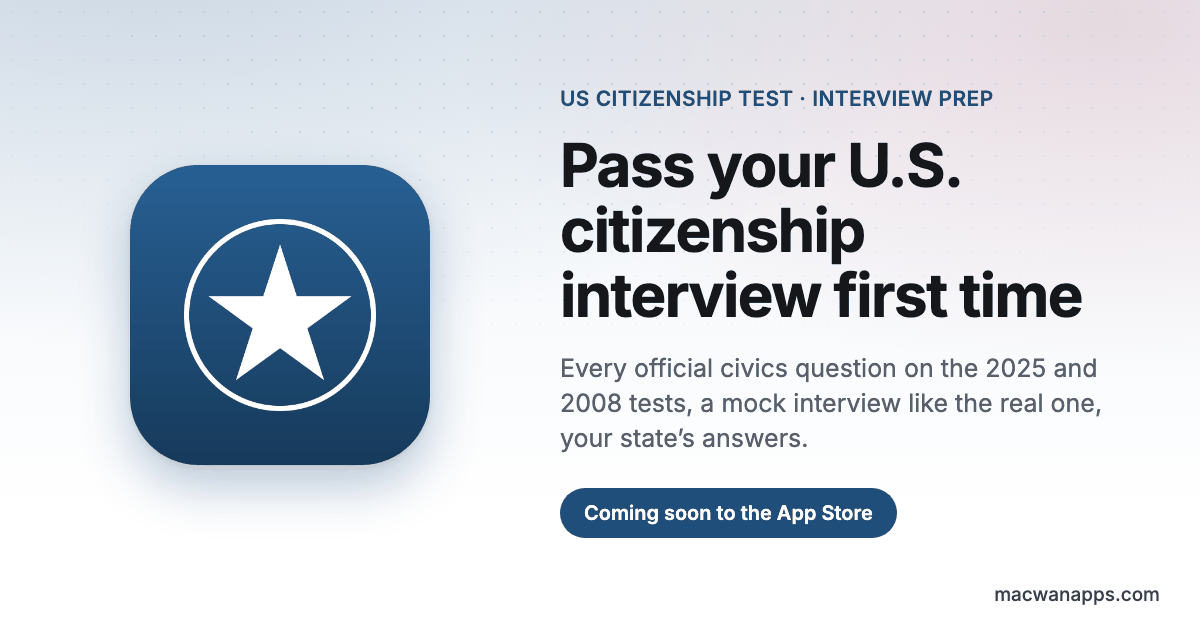
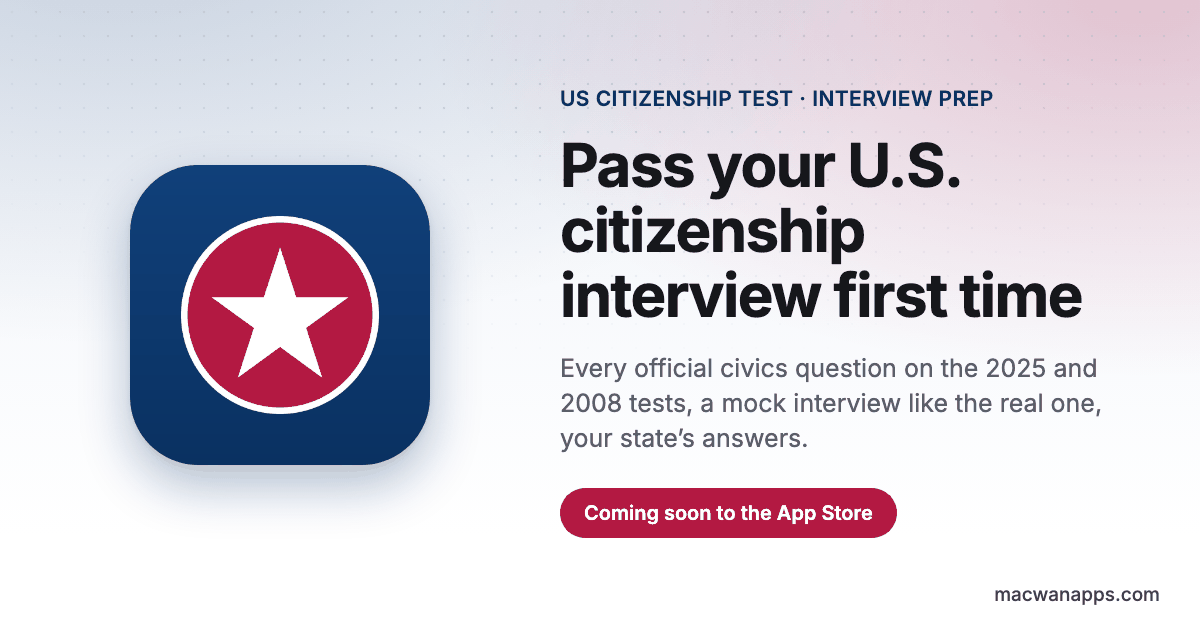
feat(citizenship): each country in its flag colours
Australia goes green and gold, the US red and blue, New Zealand black and
white; Canada keeps its maple red.

- Per-country palettes in site.css now carry role variables: the base
  colour for text, links and icons (always readable on white), and the
  second flag colour for buttons, the coming-soon pill, step badges and
  glows. Gold buttons carry dark text, never white.
- Australia: national green #00843D and gold #FFCD00.
  US: Old Glory Blue #0A3161 and Old Glory Red #B31942.
  New Zealand: black, white and silver.
- Dark mode palettes for all three, with an edge on the black NZ emblem.
- New US emblem (red disc and white star on navy) and NZ emblem (white
  Southern Cross on black); share cards re-rendered, NZ's on black.
- Homepage cards, browser theme-color tints and contact buttons follow.

Accessibility 100 on all 12 pages in light and dark (contrast included).

diff --git a/css/site.css b/css/site.css
@@ -3187,32 +3187,59 @@ html.noanim .deco-rings::before, html.noanim .float-chip { animation: none; }
    Same structure as the Canada landing above, which keeps its own
    tested block. Light, dark and mobile.
    ============================================================ */
+/* Each country in its flag colours. --cz-rgb carries text, links and icons
+   (always readable on white); the second flag colour goes on buttons,
+   pills, step badges and glows. Canada keeps its own maple block above. */
 .theme-cz-au {
-  --cz-rgb: 31, 111, 80;      /* eucalyptus — the app's accent */
-  --cz-deep-rgb: 22, 82, 57;
-  --cz-warm-rgb: 214, 158, 22; /* wattle */
-  --cz-tint: #f3f8f4;
-  --cz-hero-top: #edf6f0;
-  --cz-cta: #1f6f50;
-  --cz-cta-hover: #165239;
+  --cz-rgb: 0, 132, 61;           /* national green #00843D (4.8:1 on white) */
+  --cz-deep-rgb: 0, 102, 51;
+  --cz-warm-rgb: 255, 205, 0;     /* national gold #FFCD00 */
+  --cz-tint: #fffbe8;
+  --cz-hero-top: #f1f8ef;
+  --cz-cta: #ffcd00;              /* gold buttons carry dark text, never white */
+  --cz-cta-hover: #f2bd00;
+  --cz-cta-ink: #1b1b1b;
+  --cz-pill-bg: #fff5cc;
+  --cz-pill-fg: #5c4600;
+  --cz-pill-border: #e6b800;
+  --cz-step-a: #ffd84d;
+  --cz-step-b: #f2b705;
+  --cz-step-ink: #1b1b1b;
+  --cz-step-glow: 230, 184, 0;
 }
 .theme-cz-us {
-  --cz-rgb: 31, 78, 122;      /* navy — the app's accent */
-  --cz-deep-rgb: 22, 58, 91;
-  --cz-warm-rgb: 178, 34, 52;  /* flag red, used sparingly */
-  --cz-tint: #f3f6fa;
-  --cz-hero-top: #edf2f8;
-  --cz-cta: #1f4e7a;
-  --cz-cta-hover: #163a5b;
+  --cz-rgb: 10, 49, 97;           /* Old Glory Blue #0A3161 */
+  --cz-deep-rgb: 6, 31, 64;
+  --cz-warm-rgb: 179, 25, 66;     /* Old Glory Red #B31942 */
+  --cz-tint: #f3f5fa;
+  --cz-hero-top: #eef2f9;
+  --cz-cta: #b31942;              /* white on red: 6.7:1 */
+  --cz-cta-hover: #93143a;
+  --cz-cta-ink: #ffffff;
+  --cz-pill-bg: #fcebef;
+  --cz-pill-fg: #8e1435;
+  --cz-pill-border: #b31942;
+  --cz-step-a: #c8264f;
+  --cz-step-b: #93143a;
+  --cz-step-ink: #ffffff;
+  --cz-step-glow: 179, 25, 66;
 }
 .theme-cz-nz {
-  --cz-rgb: 14, 116, 112;     /* pounamu */
-  --cz-deep-rgb: 10, 84, 81;
-  --cz-warm-rgb: 79, 163, 199; /* sky */
-  --cz-tint: #f1f8f7;
-  --cz-hero-top: #ebf6f5;
-  --cz-cta: #0e7470;
-  --cz-cta-hover: #0a5451;
+  --cz-rgb: 17, 17, 17;           /* black and white, silver for the glow */
+  --cz-deep-rgb: 0, 0, 0;
+  --cz-warm-rgb: 140, 146, 156;
+  --cz-tint: #f4f4f5;
+  --cz-hero-top: #f2f2f3;
+  --cz-cta: #111111;
+  --cz-cta-hover: #000000;
+  --cz-cta-ink: #ffffff;
+  --cz-pill-bg: #ffffff;
+  --cz-pill-fg: #111111;
+  --cz-pill-border: #111111;
+  --cz-step-a: #2a2a2a;
+  --cz-step-b: #000000;
+  --cz-step-ink: #ffffff;
+  --cz-step-glow: 0, 0, 0;
 }
 .theme-cz {
   --accent: rgb(var(--cz-rgb));
@@ -3254,8 +3281,16 @@ html.noanim .deco-rings::before, html.noanim .float-chip { animation: none; }
   background: rgba(255, 255, 255, 0.85);
   border-bottom-color: var(--border);
 }
-.theme-cz nav .nav-links a.nav-cta { color: #fff; background: var(--cz-cta); }
-.theme-cz nav .nav-links a.nav-cta:hover { color: #fff; background: var(--cz-cta-hover); }
+.theme-cz nav .nav-links a.nav-cta { color: var(--cz-cta-ink); background: var(--cz-cta); }
+.theme-cz nav .nav-links a.nav-cta:hover { color: var(--cz-cta-ink); background: var(--cz-cta-hover); }
+.theme-cz .coming-soon-pill {
+  background: var(--cz-pill-bg);
+  color: var(--cz-pill-fg);
+  border-color: var(--cz-pill-border);
+}
+.theme-cz .contact-btn { background: var(--cz-cta); color: var(--cz-cta-ink); }
+.theme-cz .contact-btn:hover { background: var(--cz-cta-hover); }
+.theme-cz .contact-btn svg { fill: var(--cz-cta-ink); }
 
 .theme-cz .hero-split-shot { position: relative; }
 .theme-cz .hero-split-shot::before {
@@ -3285,9 +3320,9 @@ html.noanim .deco-rings::before, html.noanim .float-chip { animation: none; }
 }
 .theme-cz .how-grid { max-width: 976px; margin-left: auto; margin-right: auto; }
 .theme-cz .step-num {
-  background: linear-gradient(135deg, rgb(var(--cz-rgb)), rgb(var(--cz-deep-rgb)));
-  color: #fff;
-  box-shadow: 0 4px 12px rgba(var(--cz-rgb), 0.25);
+  background: linear-gradient(135deg, var(--cz-step-a), var(--cz-step-b));
+  color: var(--cz-step-ink);
+  box-shadow: 0 4px 12px rgba(var(--cz-step-glow), 0.28);
 }
 
 .theme-cz .features-section {
@@ -3470,9 +3505,33 @@ html.noanim .deco-rings::before, html.noanim .float-chip { animation: none; }
 .cz-family .dot-sep { display: inline-block; width: 4px; height: 4px; border-radius: 50%; background: var(--border-strong); margin: 0 10px; vertical-align: middle; }
 
 @media (prefers-color-scheme: dark) {
-  .theme-cz-au { --cz-rgb: 92, 194, 154; --cz-deep-rgb: 60, 150, 116; --cz-warm-rgb: 230, 182, 60; --cz-tint: #0f1714; --cz-hero-top: #0d1512; }
-  .theme-cz-us { --cz-rgb: 121, 172, 217; --cz-deep-rgb: 86, 136, 184; --cz-warm-rgb: 224, 96, 110; --cz-tint: #0f131a; --cz-hero-top: #0d1219; }
-  .theme-cz-nz { --cz-rgb: 79, 193, 184; --cz-deep-rgb: 52, 152, 145; --cz-warm-rgb: 116, 190, 222; --cz-tint: #0e1716; --cz-hero-top: #0c1514; }
+  .theme-cz-au {
+    --cz-rgb: 77, 201, 132; --cz-deep-rgb: 0, 132, 61; --cz-warm-rgb: 255, 205, 0;
+    --cz-tint: #16150b; --cz-hero-top: #12140d;
+    --cz-cta: #ffcd00; --cz-cta-hover: #ffd84d; --cz-cta-ink: #111111;
+    --cz-pill-bg: rgba(255, 205, 0, 0.14); --cz-pill-fg: #ffd84d; --cz-pill-border: #ffcd00;
+    --cz-step-a: #ffd84d; --cz-step-b: #e6b800; --cz-step-ink: #111111; --cz-step-glow: 255, 205, 0;
+  }
+  .theme-cz-us {
+    --cz-rgb: 143, 180, 230; --cz-deep-rgb: 98, 140, 200; --cz-warm-rgb: 214, 72, 105;
+    --cz-tint: #0e1320; --cz-hero-top: #0c1120;
+    --cz-cta: #b31942; --cz-cta-hover: #c8264f; --cz-cta-ink: #ffffff;
+    --cz-pill-bg: rgba(214, 72, 105, 0.16); --cz-pill-fg: #f28aa3; --cz-pill-border: #d64869;
+    --cz-step-a: #d64869; --cz-step-b: #b31942; --cz-step-ink: #ffffff; --cz-step-glow: 214, 72, 105;
+  }
+  /* The black NZ emblem needs an edge to show on a black page. */
+  .theme-cz-nz .cc-hero-icon,
+  .theme-cz-nz .cz-cta-icon,
+  .theme-cz-nz nav .brand img { box-shadow: 0 0 0 1px rgba(255, 255, 255, 0.22); }
+  .theme-cz-nz nav .brand img { border-radius: 6px; }
+  .card-cz-nz .app-icon { box-shadow: 0 0 0 1px rgba(255, 255, 255, 0.22); }
+  .theme-cz-nz {
+    --cz-rgb: 245, 245, 245; --cz-deep-rgb: 212, 212, 216; --cz-warm-rgb: 161, 161, 170;
+    --cz-tint: #141416; --cz-hero-top: #0a0a0b;
+    --cz-cta: #f5f5f5; --cz-cta-hover: #ffffff; --cz-cta-ink: #0b0b0b;
+    --cz-pill-bg: rgba(255, 255, 255, 0.06); --cz-pill-fg: #f5f5f5; --cz-pill-border: #f5f5f5;
+    --cz-step-a: #ffffff; --cz-step-b: #d4d4d8; --cz-step-ink: #0b0b0b; --cz-step-glow: 0, 0, 0;
+  }
   .theme-cz nav {
     background: rgba(14, 15, 18, 0.55);
     border-bottom: 1px solid rgba(var(--cz-rgb), 0.12);
@@ -3486,7 +3545,6 @@ html.noanim .deco-rings::before, html.noanim .float-chip { animation: none; }
     border-color: rgba(var(--cz-rgb), 0.18);
     box-shadow: 0 8px 28px rgba(0, 0, 0, 0.45);
   }
-  .theme-cz .step-num { color: #0e0f12; }
   .cz-planned { color: rgb(var(--cz-rgb)); }
 }
 
@@ -3505,21 +3563,30 @@ html.noanim .deco-rings::before, html.noanim .float-chip { animation: none; }
 }
 
 /* Citizenship apps on the homepage: one card style, coloured per country */
-.card-cz-au { --card-rgb: 31, 111, 80; --card-deep: #165239; --card-bg1: #f2f8f4; --card-bg2: #e2f0e7; }
-.card-cz-us { --card-rgb: 31, 78, 122; --card-deep: #163a5b; --card-bg1: #f2f6fa; --card-bg2: #e1eaf4; }
-.card-cz-nz { --card-rgb: 14, 116, 112; --card-deep: #0a5451; --card-bg1: #f0f8f7; --card-bg2: #dff0ee; }
+.card-cz-au {
+  --card-rgb: 0, 132, 61; --card-glow: 255, 205, 0; --card-bg1: #fffbe8; --card-bg2: #e6f4ea;
+  --card-pill-bg: #fff5cc; --card-pill-fg: #5c4600; --card-pill-dot: #e6b800;
+}
+.card-cz-us {
+  --card-rgb: 10, 49, 97; --card-glow: 179, 25, 66; --card-bg1: #eef2f9; --card-bg2: #fbeef1;
+  --card-pill-bg: #fcebef; --card-pill-fg: #8e1435; --card-pill-dot: #b31942;
+}
+.card-cz-nz {
+  --card-rgb: 17, 17, 17; --card-glow: 0, 0, 0; --card-bg1: #f6f6f7; --card-bg2: #e4e4e7;
+  --card-pill-bg: #f1f1f2; --card-pill-fg: #111111; --card-pill-dot: #111111;
+}
 .card-cz:hover {
   border-color: rgba(var(--card-rgb), 0.35);
   box-shadow: 0 12px 48px rgba(var(--card-rgb), 0.14);
 }
-.card-cz .app-status.app-status-soon { background: rgba(var(--card-rgb), 0.09); color: var(--card-deep); }
-.card-cz .app-status.app-status-soon::before { background: rgb(var(--card-rgb)); }
+.card-cz .app-status.app-status-soon { background: var(--card-pill-bg); color: var(--card-pill-fg); }
+.card-cz .app-status.app-status-soon::before { background: var(--card-pill-dot); }
 .card-cz .app-mini-list li::before { background: rgba(var(--card-rgb), 0.12); }
 .card-cz .app-mini-list li::after { border-color: rgb(var(--card-rgb)); }
 .card-cz .app-preview {
   border-left-color: rgba(var(--card-rgb), 0.14);
   background:
-    radial-gradient(ellipse 80% 60% at 50% 110%, rgba(var(--card-rgb), 0.14), transparent),
+    radial-gradient(ellipse 80% 60% at 50% 110%, rgba(var(--card-glow), 0.16), transparent),
     linear-gradient(160deg, var(--card-bg1) 0%, var(--card-bg2) 100%);
 }
 .card-cz .app-preview img {
@@ -3529,9 +3596,18 @@ html.noanim .deco-rings::before, html.noanim .float-chip { animation: none; }
 .app-card-compact .app-card-inner { padding: 32px 40px; }
 .app-card-compact .app-tagline { max-width: 620px; }
 @media (prefers-color-scheme: dark) {
-  .card-cz-au { --card-rgb: 92, 194, 154; --card-deep: #7fd4b2; --card-bg1: #101814; --card-bg2: #0d1411; }
-  .card-cz-us { --card-rgb: 121, 172, 217; --card-deep: #9dc3e6; --card-bg1: #10141b; --card-bg2: #0d1117; }
-  .card-cz-nz { --card-rgb: 79, 193, 184; --card-deep: #7fd6cf; --card-bg1: #0f1817; --card-bg2: #0c1413; }
+  .card-cz-au {
+    --card-rgb: 77, 201, 132; --card-glow: 255, 205, 0; --card-bg1: #17160c; --card-bg2: #0e1611;
+    --card-pill-bg: rgba(255, 205, 0, 0.14); --card-pill-fg: #ffd84d; --card-pill-dot: #ffcd00;
+  }
+  .card-cz-us {
+    --card-rgb: 143, 180, 230; --card-glow: 214, 72, 105; --card-bg1: #0e1320; --card-bg2: #1a0f15;
+    --card-pill-bg: rgba(214, 72, 105, 0.16); --card-pill-fg: #f28aa3; --card-pill-dot: #d64869;
+  }
+  .card-cz-nz {
+    --card-rgb: 245, 245, 245; --card-glow: 255, 255, 255; --card-bg1: #151517; --card-bg2: #0b0b0c;
+    --card-pill-bg: rgba(255, 255, 255, 0.08); --card-pill-fg: #f5f5f5; --card-pill-dot: #f5f5f5;
+  }
   .card-cz .app-preview img { box-shadow: 0 -8px 32px rgba(0, 0, 0, 0.4); }
 }
 @media (max-width: 760px) {

diff --git a/apps/australia-citizenship/index.html b/apps/australia-citizenship/index.html
@@ -21,8 +21,8 @@
 <link rel="icon" type="image/png" sizes="32x32" href="/images/ma-favicon-32x32.png">
 <link rel="icon" type="image/png" sizes="16x16" href="/images/ma-favicon-16x16.png">
 <link rel="apple-touch-icon" sizes="180x180" href="/images/ma-apple-touch-icon.png">
-<meta name="theme-color" media="(prefers-color-scheme: light)" content="#edf6f0">
-<meta name="theme-color" media="(prefers-color-scheme: dark)" content="#0d1512">
+<meta name="theme-color" media="(prefers-color-scheme: light)" content="#f1f8ef">
+<meta name="theme-color" media="(prefers-color-scheme: dark)" content="#12140d">
 <link rel="preload" as="font" type="font/woff2" href="/fonts/inter-600.woff2" crossorigin>
 <link rel="preload" as="font" type="font/woff2" href="/fonts/inter-400.woff2" crossorigin>
 <link rel="preload" as="image" href="/images/au-study.webp" imagesrcset="/images/au-study-300.webp 300w, /images/au-study.webp 600w" imagesizes="(max-width: 900px) 240px, 280px" type="image/webp">

diff --git a/apps/us-citizenship/index.html b/apps/us-citizenship/index.html
@@ -21,8 +21,8 @@
 <link rel="icon" type="image/png" sizes="32x32" href="/images/ma-favicon-32x32.png">
 <link rel="icon" type="image/png" sizes="16x16" href="/images/ma-favicon-16x16.png">
 <link rel="apple-touch-icon" sizes="180x180" href="/images/ma-apple-touch-icon.png">
-<meta name="theme-color" media="(prefers-color-scheme: light)" content="#edf2f8">
-<meta name="theme-color" media="(prefers-color-scheme: dark)" content="#0d1219">
+<meta name="theme-color" media="(prefers-color-scheme: light)" content="#eef2f9">
+<meta name="theme-color" media="(prefers-color-scheme: dark)" content="#0c1120">
 <link rel="preload" as="font" type="font/woff2" href="/fonts/inter-600.woff2" crossorigin>
 <link rel="preload" as="font" type="font/woff2" href="/fonts/inter-400.woff2" crossorigin>
 <link rel="preload" as="image" href="/images/us-study.webp" imagesrcset="/images/us-study-300.webp 300w, /images/us-study.webp 600w" imagesizes="(max-width: 900px) 240px, 280px" type="image/webp">

diff --git a/apps/australia-citizenship/privacy/index.html b/apps/australia-citizenship/privacy/index.html
@@ -20,8 +20,8 @@
 <link rel="icon" type="image/png" sizes="32x32" href="/images/ma-favicon-32x32.png">
 <link rel="icon" type="image/png" sizes="16x16" href="/images/ma-favicon-16x16.png">
 <link rel="apple-touch-icon" sizes="180x180" href="/images/ma-apple-touch-icon.png">
-<meta name="theme-color" media="(prefers-color-scheme: light)" content="#edf6f0">
-<meta name="theme-color" media="(prefers-color-scheme: dark)" content="#0d1512">
+<meta name="theme-color" media="(prefers-color-scheme: light)" content="#f1f8ef">
+<meta name="theme-color" media="(prefers-color-scheme: dark)" content="#12140d">
 <link rel="preload" as="font" type="font/woff2" href="/fonts/inter-600.woff2" crossorigin>
 <link rel="preload" as="font" type="font/woff2" href="/fonts/inter-400.woff2" crossorigin>
 <link rel="stylesheet" href="/css/site.css">

diff --git a/apps/australia-citizenship/support/index.html b/apps/australia-citizenship/support/index.html
@@ -20,8 +20,8 @@
 <link rel="icon" type="image/png" sizes="32x32" href="/images/ma-favicon-32x32.png">
 <link rel="icon" type="image/png" sizes="16x16" href="/images/ma-favicon-16x16.png">
 <link rel="apple-touch-icon" sizes="180x180" href="/images/ma-apple-touch-icon.png">
-<meta name="theme-color" media="(prefers-color-scheme: light)" content="#edf6f0">
-<meta name="theme-color" media="(prefers-color-scheme: dark)" content="#0d1512">
+<meta name="theme-color" media="(prefers-color-scheme: light)" content="#f1f8ef">
+<meta name="theme-color" media="(prefers-color-scheme: dark)" content="#12140d">
 <link rel="preload" as="font" type="font/woff2" href="/fonts/inter-600.woff2" crossorigin>
 <link rel="preload" as="font" type="font/woff2" href="/fonts/inter-400.woff2" crossorigin>
 <link rel="stylesheet" href="/css/site.css">

diff --git a/apps/australia-citizenship/terms/index.html b/apps/australia-citizenship/terms/index.html
@@ -20,8 +20,8 @@
 <link rel="icon" type="image/png" sizes="32x32" href="/images/ma-favicon-32x32.png">
 <link rel="icon" type="image/png" sizes="16x16" href="/images/ma-favicon-16x16.png">
 <link rel="apple-touch-icon" sizes="180x180" href="/images/ma-apple-touch-icon.png">
-<meta name="theme-color" media="(prefers-color-scheme: light)" content="#edf6f0">
-<meta name="theme-color" media="(prefers-color-scheme: dark)" content="#0d1512">
+<meta name="theme-color" media="(prefers-color-scheme: light)" content="#f1f8ef">
+<meta name="theme-color" media="(prefers-color-scheme: dark)" content="#12140d">
 <link rel="preload" as="font" type="font/woff2" href="/fonts/inter-600.woff2" crossorigin>
 <link rel="preload" as="font" type="font/woff2" href="/fonts/inter-400.woff2" crossorigin>
 <link rel="stylesheet" href="/css/site.css">

diff --git a/apps/new-zealand-citizenship/index.html b/apps/new-zealand-citizenship/index.html
@@ -21,8 +21,8 @@
 <link rel="icon" type="image/png" sizes="32x32" href="/images/ma-favicon-32x32.png">
 <link rel="icon" type="image/png" sizes="16x16" href="/images/ma-favicon-16x16.png">
 <link rel="apple-touch-icon" sizes="180x180" href="/images/ma-apple-touch-icon.png">
-<meta name="theme-color" media="(prefers-color-scheme: light)" content="#ebf6f5">
-<meta name="theme-color" media="(prefers-color-scheme: dark)" content="#0c1514">
+<meta name="theme-color" media="(prefers-color-scheme: light)" content="#f2f2f3">
+<meta name="theme-color" media="(prefers-color-scheme: dark)" content="#0a0a0b">
 <link rel="preload" as="font" type="font/woff2" href="/fonts/inter-600.woff2" crossorigin>
 <link rel="preload" as="font" type="font/woff2" href="/fonts/inter-400.woff2" crossorigin>
 <link rel="stylesheet" href="/css/site.css">

diff --git a/apps/new-zealand-citizenship/privacy/index.html b/apps/new-zealand-citizenship/privacy/index.html
@@ -20,8 +20,8 @@
 <link rel="icon" type="image/png" sizes="32x32" href="/images/ma-favicon-32x32.png">
 <link rel="icon" type="image/png" sizes="16x16" href="/images/ma-favicon-16x16.png">
 <link rel="apple-touch-icon" sizes="180x180" href="/images/ma-apple-touch-icon.png">
-<meta name="theme-color" media="(prefers-color-scheme: light)" content="#ebf6f5">
-<meta name="theme-color" media="(prefers-color-scheme: dark)" content="#0c1514">
+<meta name="theme-color" media="(prefers-color-scheme: light)" content="#f2f2f3">
+<meta name="theme-color" media="(prefers-color-scheme: dark)" content="#0a0a0b">
 <link rel="preload" as="font" type="font/woff2" href="/fonts/inter-600.woff2" crossorigin>
 <link rel="preload" as="font" type="font/woff2" href="/fonts/inter-400.woff2" crossorigin>
 <link rel="stylesheet" href="/css/site.css">

diff --git a/apps/new-zealand-citizenship/support/index.html b/apps/new-zealand-citizenship/support/index.html
@@ -20,8 +20,8 @@
 <link rel="icon" type="image/png" sizes="32x32" href="/images/ma-favicon-32x32.png">
 <link rel="icon" type="image/png" sizes="16x16" href="/images/ma-favicon-16x16.png">
 <link rel="apple-touch-icon" sizes="180x180" href="/images/ma-apple-touch-icon.png">
-<meta name="theme-color" media="(prefers-color-scheme: light)" content="#ebf6f5">
-<meta name="theme-color" media="(prefers-color-scheme: dark)" content="#0c1514">
+<meta name="theme-color" media="(prefers-color-scheme: light)" content="#f2f2f3">
+<meta name="theme-color" media="(prefers-color-scheme: dark)" content="#0a0a0b">
 <link rel="preload" as="font" type="font/woff2" href="/fonts/inter-600.woff2" crossorigin>
 <link rel="preload" as="font" type="font/woff2" href="/fonts/inter-400.woff2" crossorigin>
 <link rel="stylesheet" href="/css/site.css">

diff --git a/apps/new-zealand-citizenship/terms/index.html b/apps/new-zealand-citizenship/terms/index.html
@@ -20,8 +20,8 @@
 <link rel="icon" type="image/png" sizes="32x32" href="/images/ma-favicon-32x32.png">
 <link rel="icon" type="image/png" sizes="16x16" href="/images/ma-favicon-16x16.png">
 <link rel="apple-touch-icon" sizes="180x180" href="/images/ma-apple-touch-icon.png">
-<meta name="theme-color" media="(prefers-color-scheme: light)" content="#ebf6f5">
-<meta name="theme-color" media="(prefers-color-scheme: dark)" content="#0c1514">
+<meta name="theme-color" media="(prefers-color-scheme: light)" content="#f2f2f3">
+<meta name="theme-color" media="(prefers-color-scheme: dark)" content="#0a0a0b">
 <link rel="preload" as="font" type="font/woff2" href="/fonts/inter-600.woff2" crossorigin>
 <link rel="preload" as="font" type="font/woff2" href="/fonts/inter-400.woff2" crossorigin>
 <link rel="stylesheet" href="/css/site.css">

diff --git a/apps/us-citizenship/privacy/index.html b/apps/us-citizenship/privacy/index.html
@@ -20,8 +20,8 @@
 <link rel="icon" type="image/png" sizes="32x32" href="/images/ma-favicon-32x32.png">
 <link rel="icon" type="image/png" sizes="16x16" href="/images/ma-favicon-16x16.png">
 <link rel="apple-touch-icon" sizes="180x180" href="/images/ma-apple-touch-icon.png">
-<meta name="theme-color" media="(prefers-color-scheme: light)" content="#edf2f8">
-<meta name="theme-color" media="(prefers-color-scheme: dark)" content="#0d1219">
+<meta name="theme-color" media="(prefers-color-scheme: light)" content="#eef2f9">
+<meta name="theme-color" media="(prefers-color-scheme: dark)" content="#0c1120">
 <link rel="preload" as="font" type="font/woff2" href="/fonts/inter-600.woff2" crossorigin>
 <link rel="preload" as="font" type="font/woff2" href="/fonts/inter-400.woff2" crossorigin>
 <link rel="stylesheet" href="/css/site.css">

diff --git a/apps/us-citizenship/support/index.html b/apps/us-citizenship/support/index.html
@@ -20,8 +20,8 @@
 <link rel="icon" type="image/png" sizes="32x32" href="/images/ma-favicon-32x32.png">
 <link rel="icon" type="image/png" sizes="16x16" href="/images/ma-favicon-16x16.png">
 <link rel="apple-touch-icon" sizes="180x180" href="/images/ma-apple-touch-icon.png">
-<meta name="theme-color" media="(prefers-color-scheme: light)" content="#edf2f8">
-<meta name="theme-color" media="(prefers-color-scheme: dark)" content="#0d1219">
+<meta name="theme-color" media="(prefers-color-scheme: light)" content="#eef2f9">
+<meta name="theme-color" media="(prefers-color-scheme: dark)" content="#0c1120">
 <link rel="preload" as="font" type="font/woff2" href="/fonts/inter-600.woff2" crossorigin>
 <link rel="preload" as="font" type="font/woff2" href="/fonts/inter-400.woff2" crossorigin>
 <link rel="stylesheet" href="/css/site.css">
